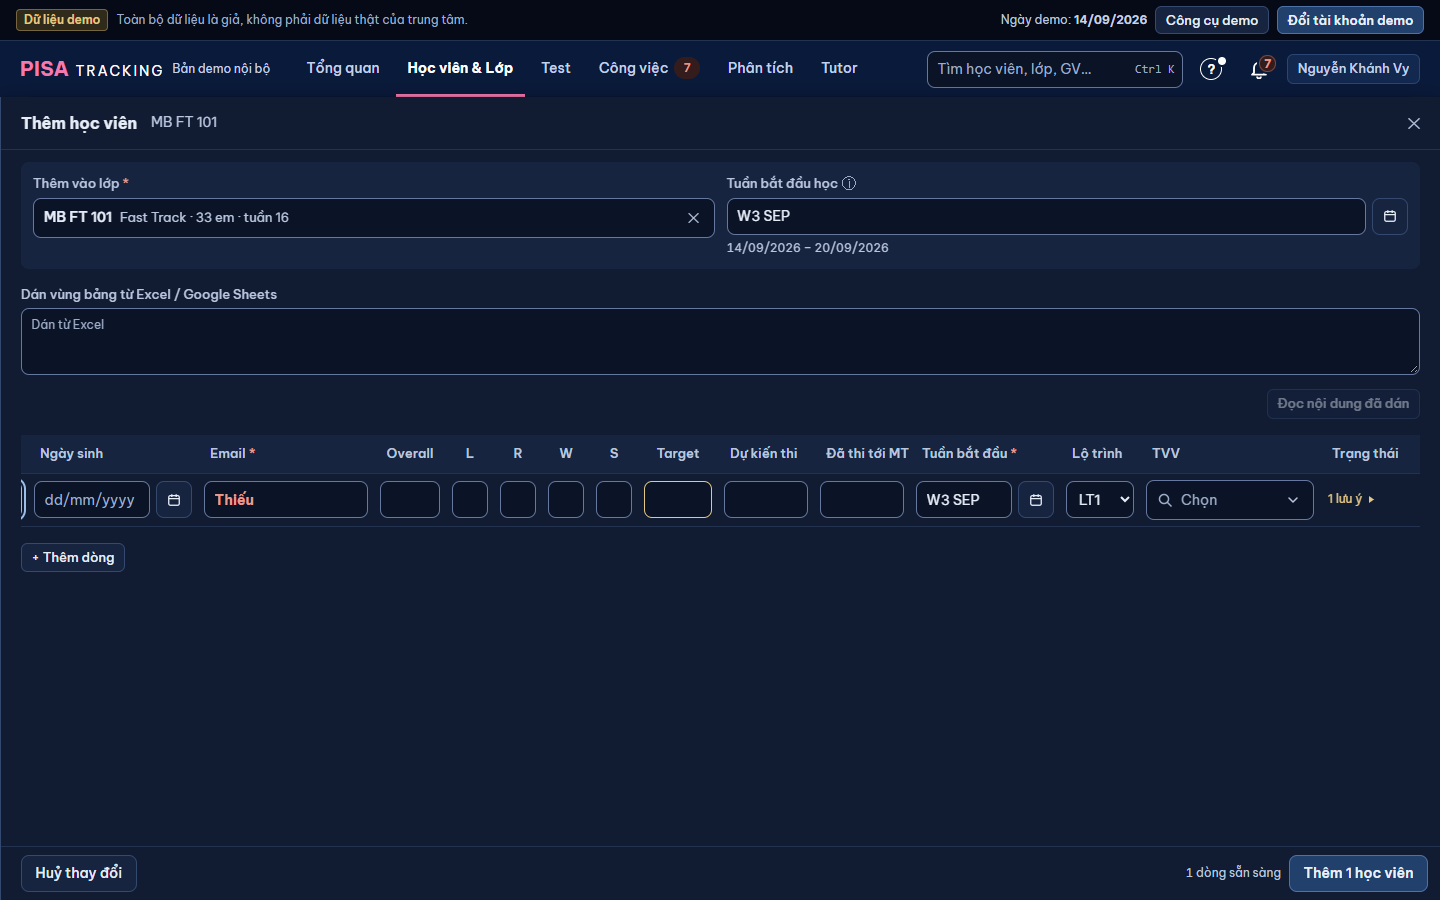
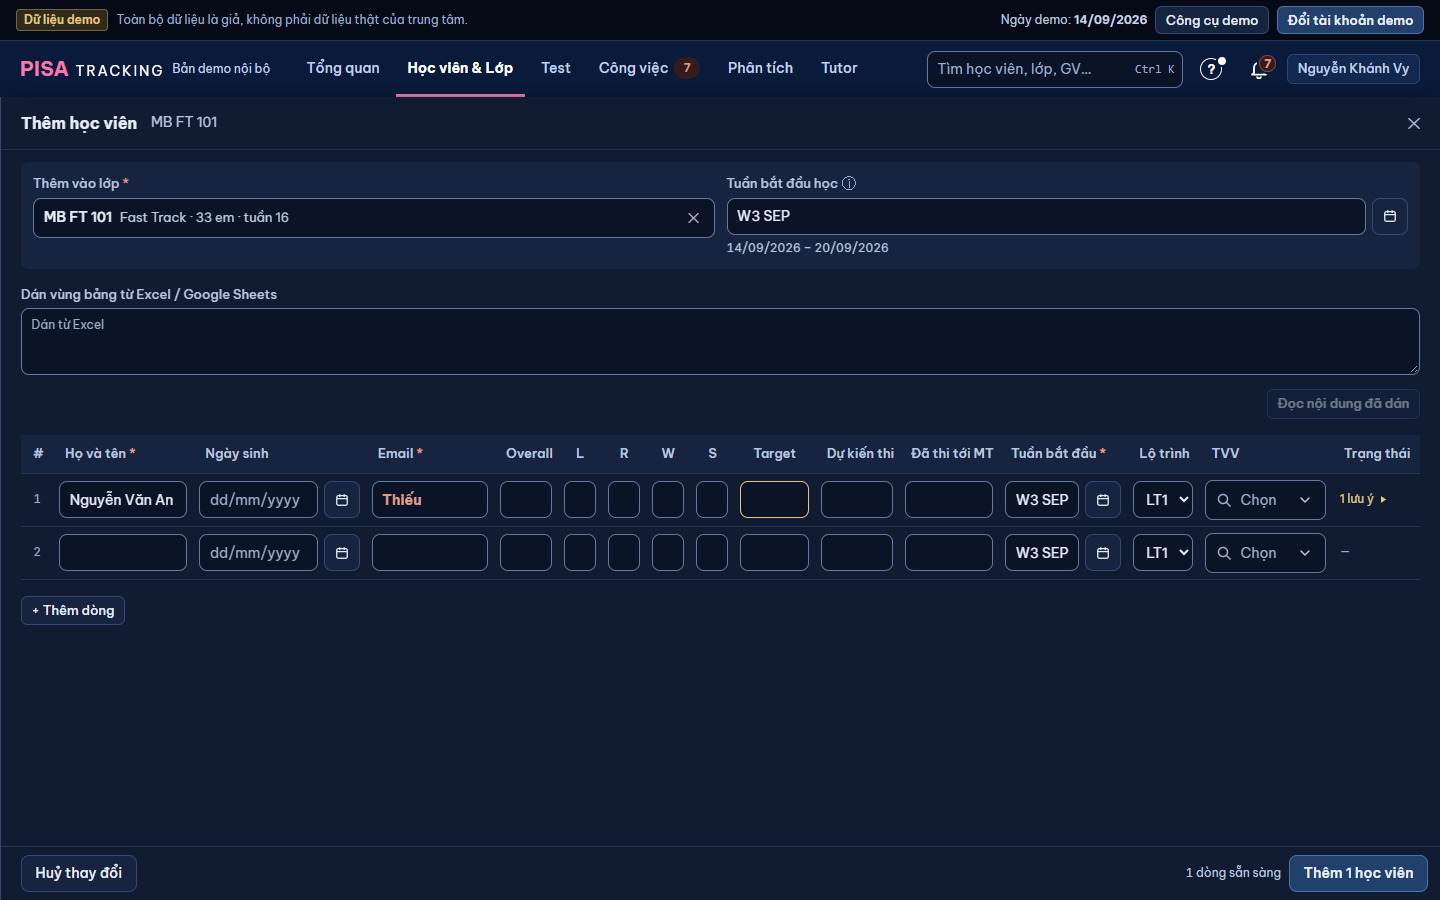
TVV-THEM (PTA ra #2328): luoi FT vua 1440 khong cuon ngang; man hep cot rong them 20 %

diff --git a/web/src/modules/students/IntakePanel.tsx b/web/src/modules/students/IntakePanel.tsx
@@ -40,8 +40,9 @@ const dongTrong = (r: Row) => Object.values(r).every((v) => !String(v ?? '').tri
 const RONG: Partial<Record<CotNhap, number>> = {
   /* I3 (PR-SL): "Overall" và chữ mẫu "dd/mm/yyyy" không bị cắt. */
   /* #9: thêm cột Lộ trình 80 — Họ tên, Email, Dự kiến thi, Đã thi tới MT, Tuần bắt đầu, Trạng thái gọn lại để lưới FT vẫn vừa 1440 (không cuộn ngang). */
-  fullName: 160, dob: 170, email: 176, baselineScore: 72, entryListening: 48, entryReading: 48, entryWriting: 48,
-  entrySpeaking: 48, target: 80, examDate: 96, daThiToiMt: 96, startWeek: 150, route: 80,   // OV-9: Target 80 cho "6.5 KCK"
+  /* TVV-THEM (PTA rà #2328): thêm cột TVV mà lưới FT vẫn vừa 1440 (vùng lưới 1399 px) — các cột gọn lại. */
+  fullName: 140, dob: 172, email: 128, baselineScore: 64, entryListening: 44, entryReading: 44, entryWriting: 44,
+  entrySpeaking: 44, target: 80, examDate: 84, daThiToiMt: 100, startWeek: 128, route: 72,   // OV-9: Target 80 cho "6.5 KCK"
 };
 const GOI_Y_COT: Partial<Record<CotNhap, string>> = {
   fullName: t('Em đã có hồ sơ thì dùng Chuyển lớp, không tạo mới.'),
@@ -54,7 +55,8 @@ const GOI_Y_COT: Partial<Record<CotNhap, string>> = {
   route: t('Lộ trình của em — mặc định theo lớp; đổi riêng từng em. Lịch MT tạo theo lộ trình em.'),
 };
 /** TVV-THEM (chủ SP 28/11): cột TVV không bắt buộc, sau cùng (trước Trạng thái) — như ô TVV của Sửa cả lớp. */
-const RONG_TVV = 180;
+const RONG_TVV = 132;
+const RONG_TRANG_THAI = 88;
 /** #9 (LO-TRINH-THEO-HV, chủ SP 11/11): lớp FT có cột Lộ trình từng em (LT1 · LT2 · RF; "Khác" mở ở Bước tiếp › Lộ trình mới). */
 const COT_LO_TRINH: CotLuoi = { key: 'route', nhan: 'Lộ trình' };
 const LO_TRINH_NHAP: readonly string[] = ROUTE_LO_TRINH_MOI.filter((k) => k !== ROUTE_KHAC);
@@ -301,12 +303,11 @@ export function IntakePanel({ defaultClass, onClose, onDone }: {
         )}
 
         <div className="overflow-x-auto">
-          <table className="w-full table-fixed text-sm" style={{ minWidth: (lopThuong ? 960 : 1390) + RONG_TVV }}>
+          {/* TVV-THEM: màn hẹp chữ ô nhập to hơn (16 px) — lưới cuộn ngang sẵn, nên mọi cột rộng thêm 20 % (`--k`), 1440 giữ vừa khung. */}
+          <table className="w-full table-fixed text-sm [--k:1] max-sm:[--k:1.2]"
+            style={{ minWidth: `calc(${32 + cols.reduce((n, c) => n + (RONG[c.key] ?? 0), 0) + RONG_TVV + RONG_TRANG_THAI}px * var(--k))` }}>
             <colgroup>
-              <col style={{ width: 32 }} />
-              {cols.map((c) => <col key={c.key} style={{ width: RONG[c.key] }} />)}
-              <col style={{ width: RONG_TVV }} />
-              <col style={{ width: 100 }} />
+              {[32, ...cols.map((c) => RONG[c.key] ?? 0), RONG_TVV, RONG_TRANG_THAI].map((w, i) => <col key={i} style={{ width: `calc(${w}px * var(--k))` }} />)}
             </colgroup>
             <thead>
               <tr>
